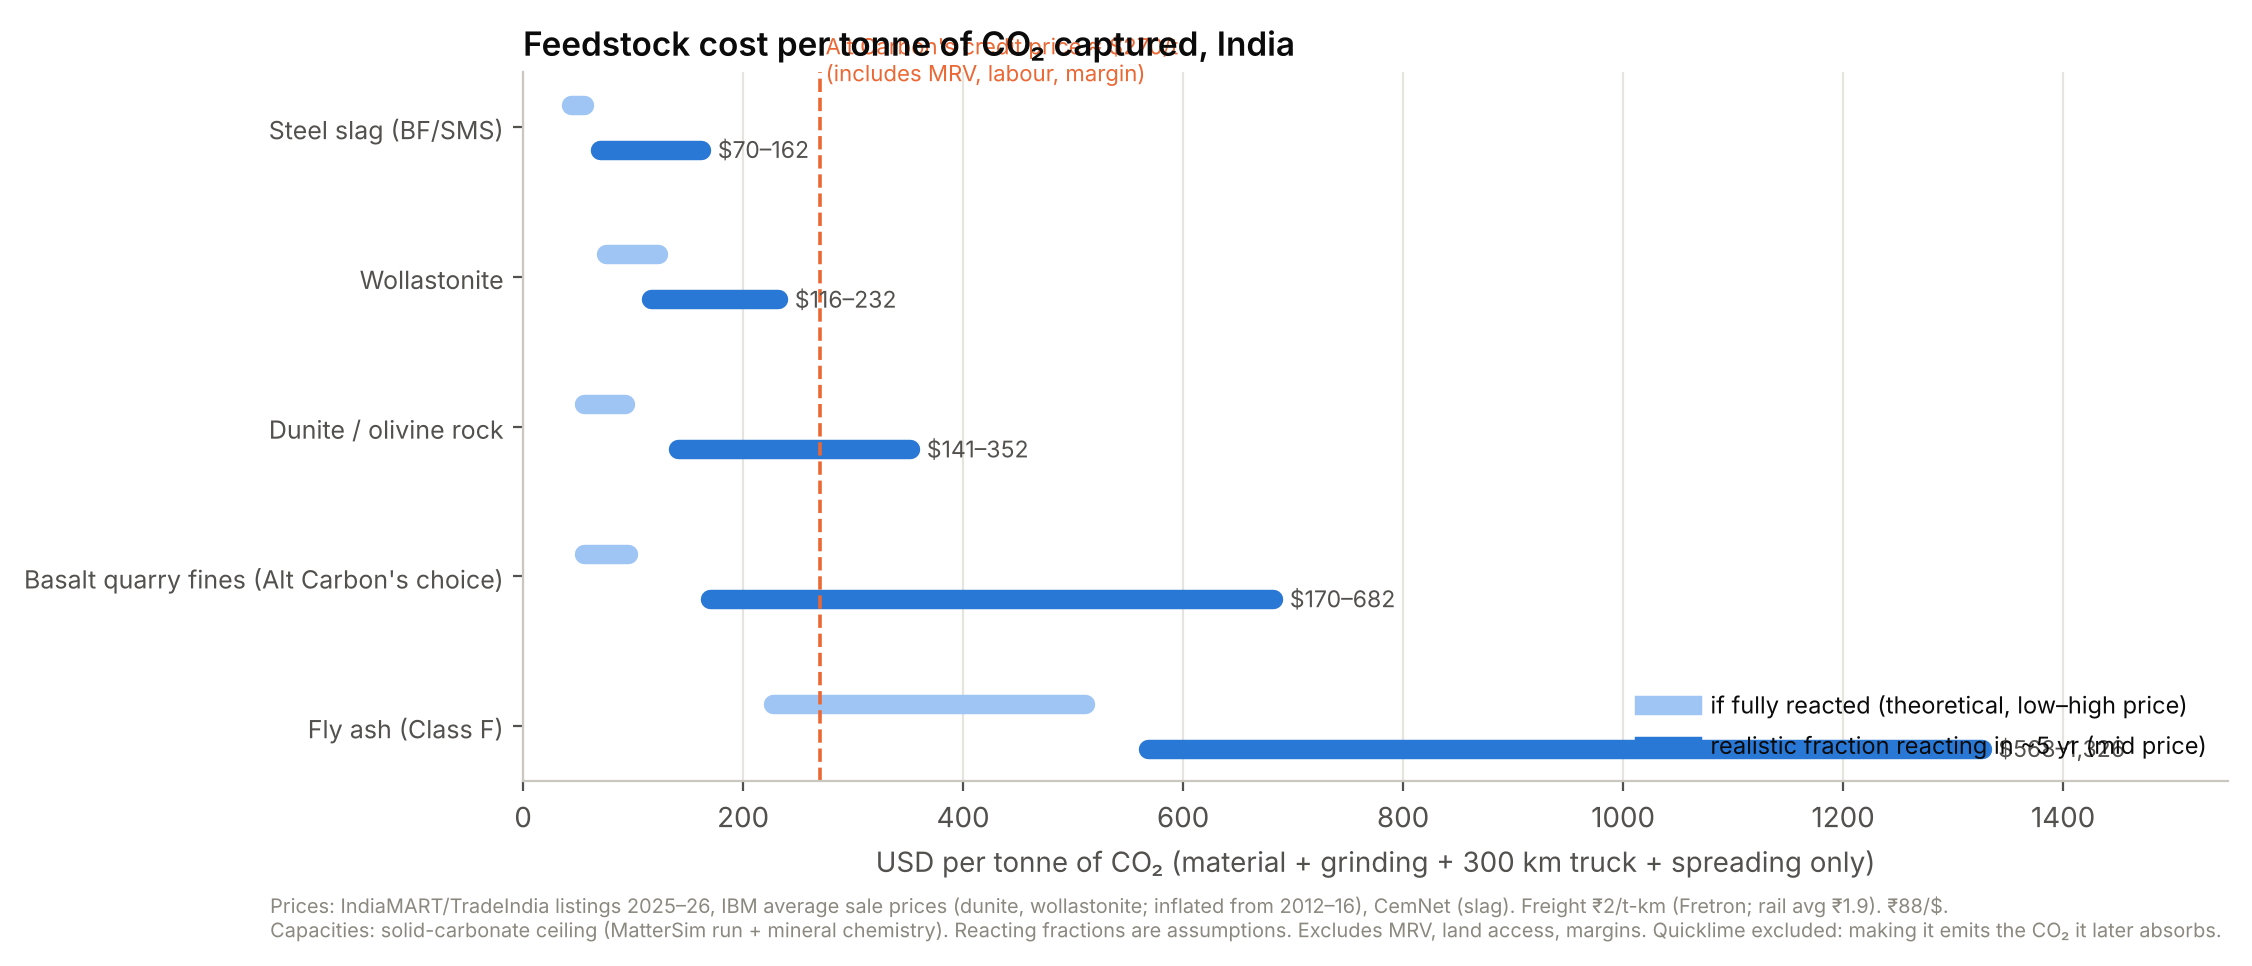
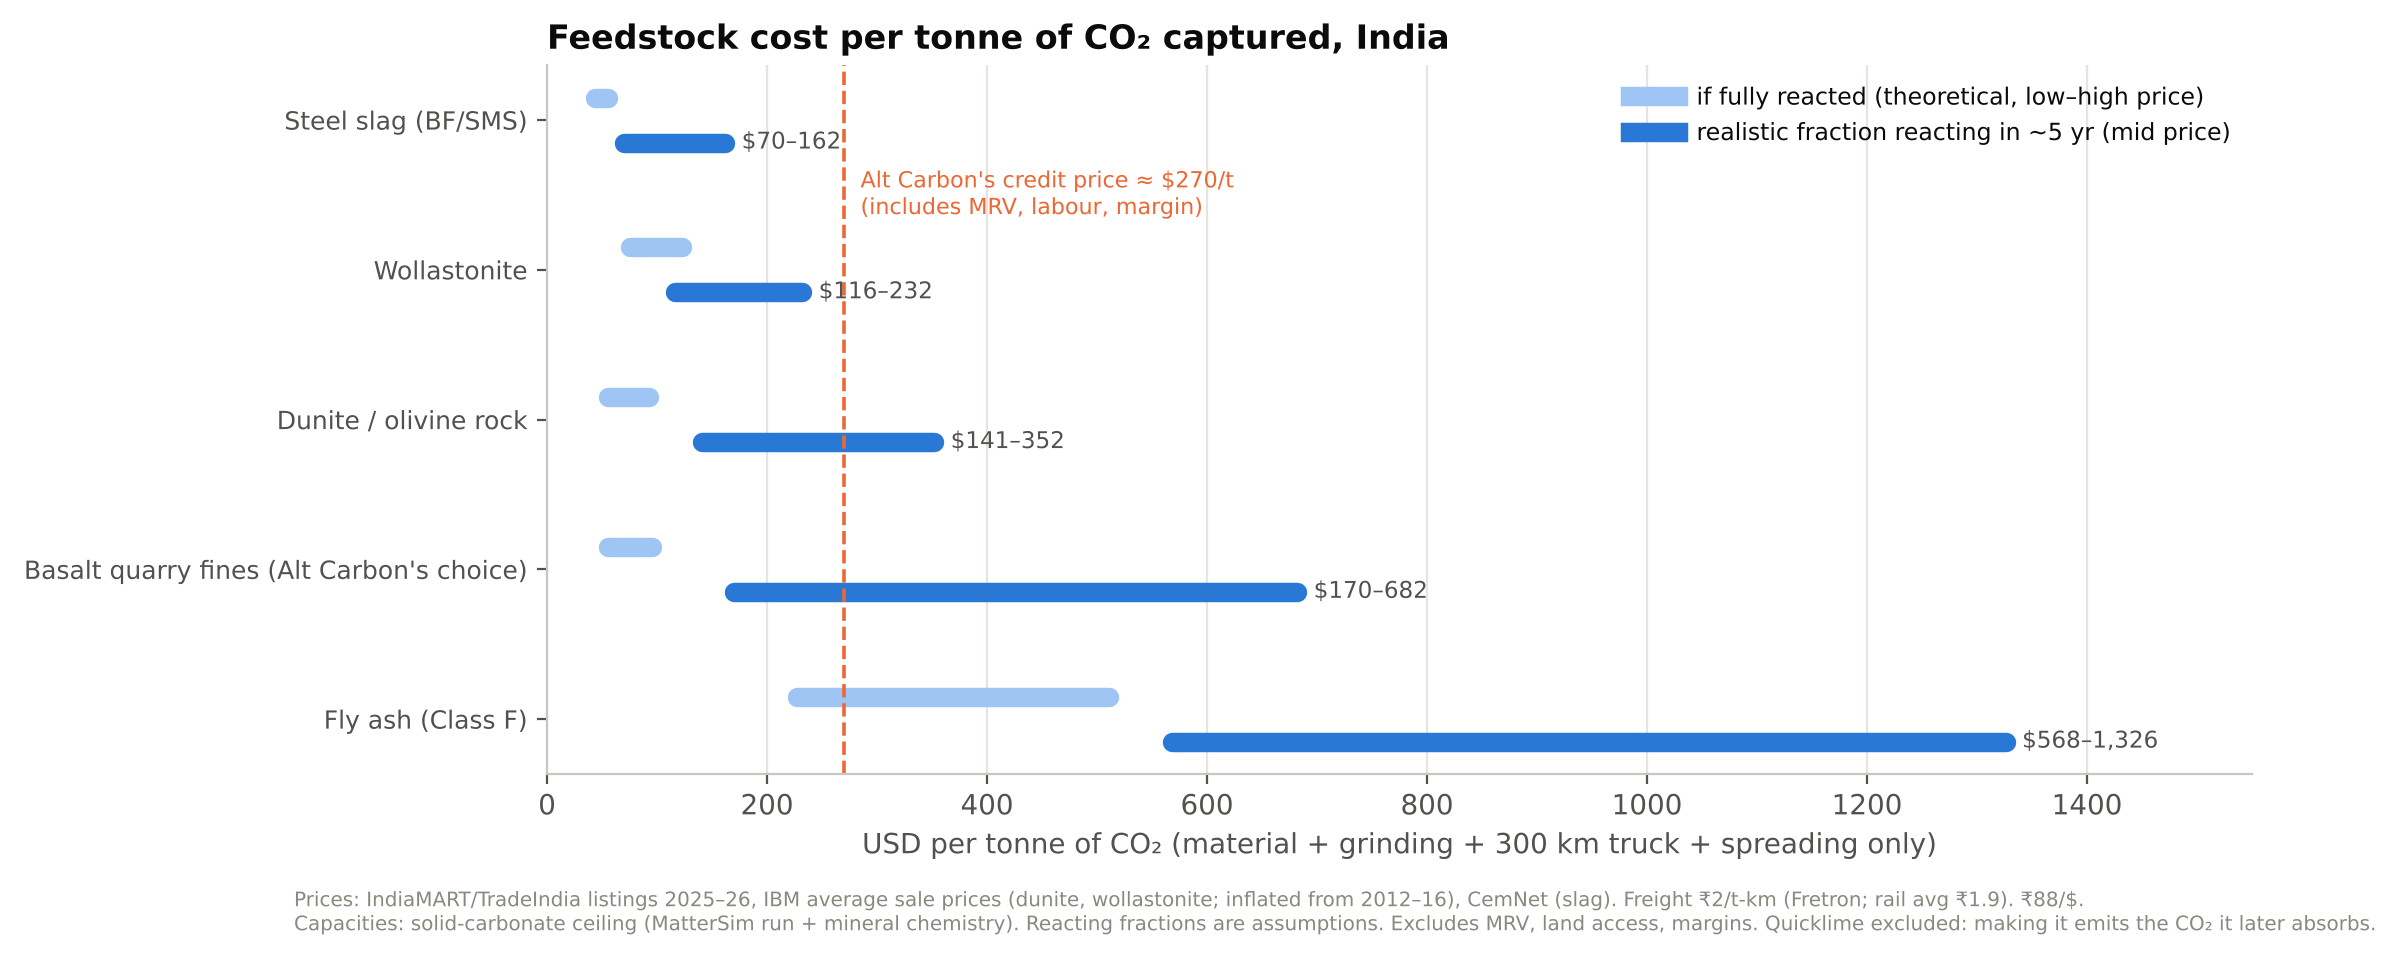
Fix feedstock cost chart labels and standalone style file
Claude-Session: https://claude.ai/code/session_014HuTbEgAsy5SPxLuzwg5wD

diff --git a/research/feedstock-costs/common.py b/research/feedstock-costs/common.py
@@ -4,10 +4,10 @@ import matplotlib.pyplot as plt
 from matplotlib import font_manager as fm
 import os
 FD = os.path.join(os.path.dirname(os.path.abspath(__file__)), "fonts")
-for f in os.listdir(FD):
+for f in (os.listdir(FD) if os.path.isdir(FD) else []):
     if f.endswith(".ttf"): fm.fontManager.addfont(os.path.join(FD, f))
 plt.rcParams.update({
-    "font.family": "Inter", "font.size": 10, "axes.edgecolor": "#c9c7c0",
+    "font.family": ("Inter" if os.path.isdir(FD) else "DejaVu Sans"), "font.size": 10, "axes.edgecolor": "#c9c7c0",
     "axes.labelcolor": "#52514e", "xtick.color": "#52514e", "ytick.color": "#52514e",
     "axes.spines.top": False, "axes.spines.right": False, "axes.titleweight": "semibold",
     "axes.titlesize": 12, "axes.titlecolor": "#0b0b0b", "text.color": "#0b0b0b",
